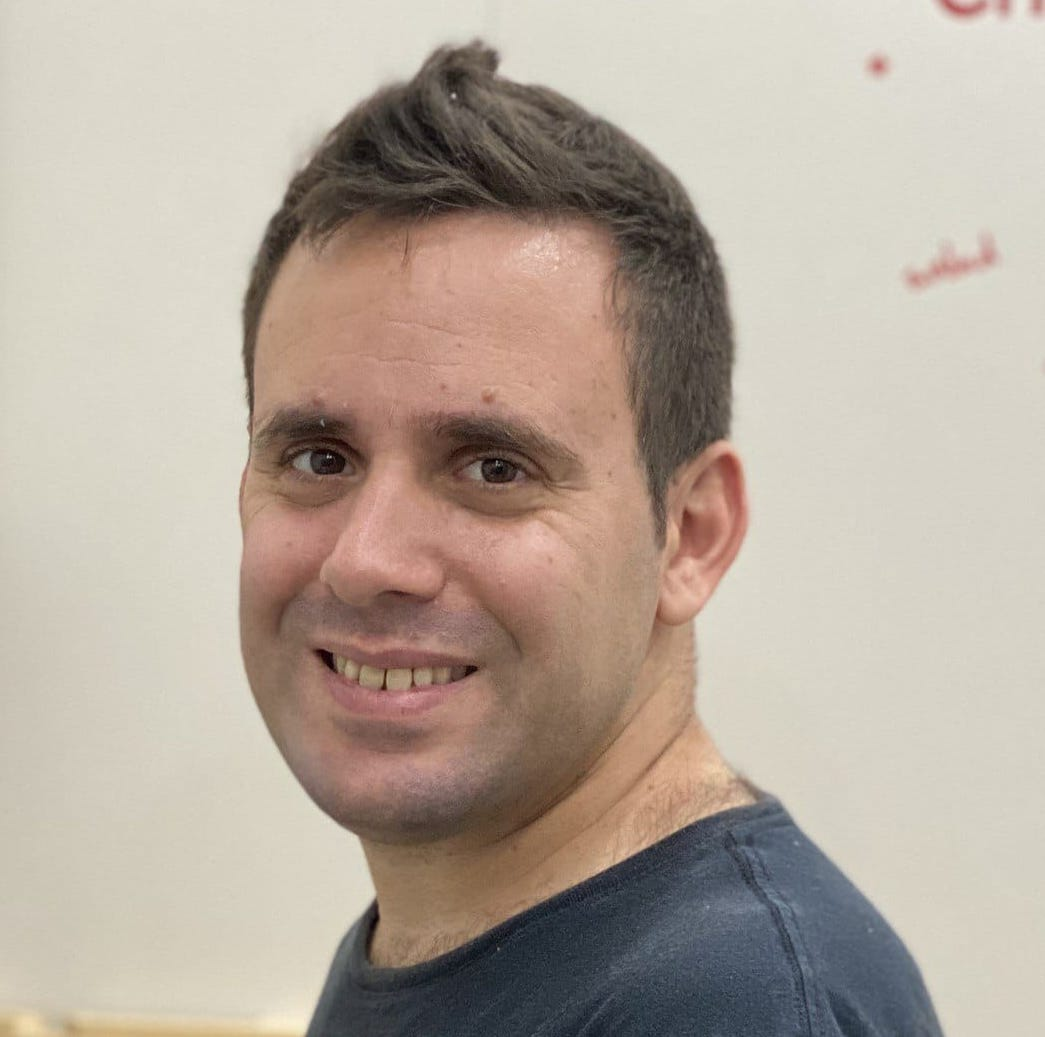
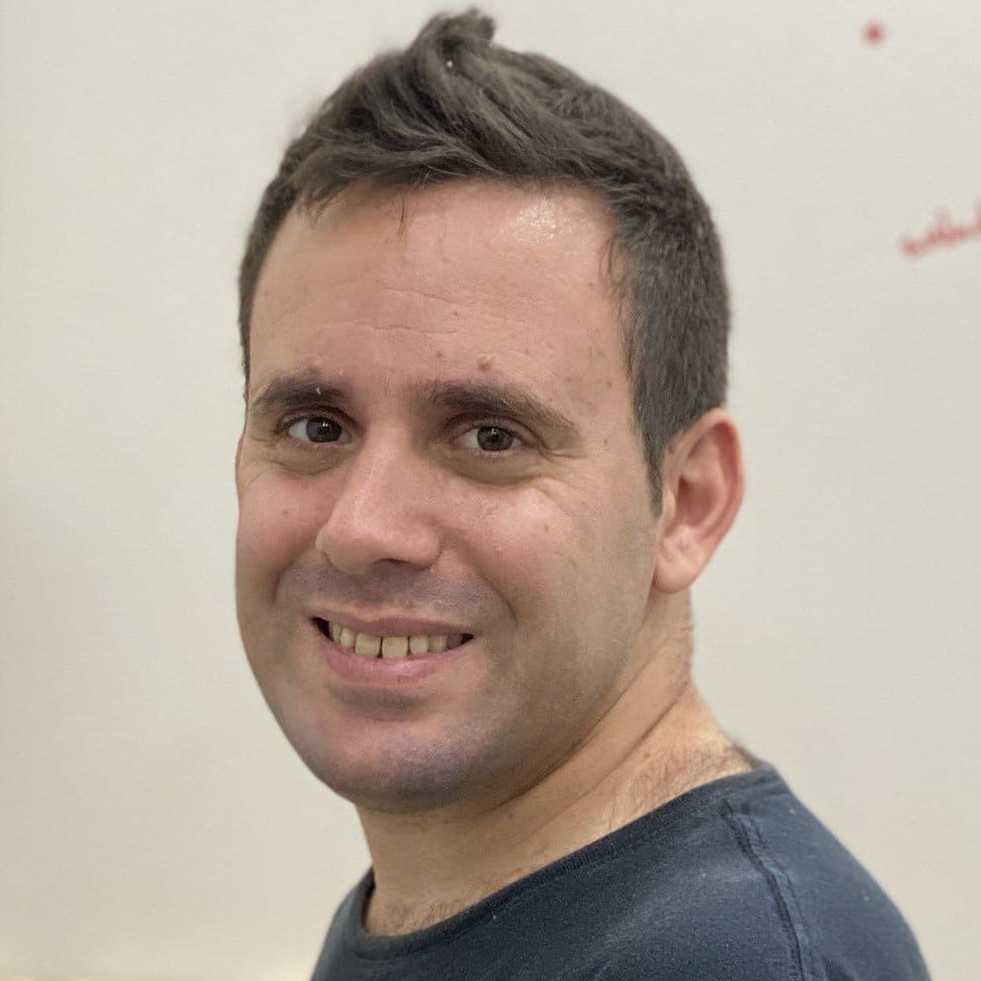
crop images, adding Rodrigo

diff --git a/docs/index.html b/docs/index.html
@@ -298,6 +298,7 @@
                 </div>
             </div> <!-- row -->
             <div class="row">
+        <div class="row justify-content-center">
           <div class="col-lg-4 col-sm-6">
                     <div class="team-style-eleven text-center mt-30 wow fadeIn" data-wow-duration="1s" data-wow-delay="0s">
                         <div class="team-image">
@@ -334,10 +335,20 @@
                         </div>
                     </div> <!-- single team -->
                 </div>
-
-
           </div>
         <div class="row justify-content-center">
+          <div class="col-lg-4 col-sm-6">
+                  <div class="team-style-eleven text-center mt-30 wow fadeIn" data-wow-duration="1s" data-wow-delay="0s">
+                      <div class="team-image">
+                          <img src="assets/images/team-7.jpg" alt="Team">
+                      </div>
+                      <div class="team-content">
+
+                          <h4 class="team-name">Rodrigo Lo Guzzo</h4>
+                          <span class="sub-title">Estudiante de Ing. en Informática</span>
+                      </div>
+                  </div> <!-- single team -->
+              </div>
             <div class="col-lg-4 col-sm-6">
                     <div class="team-style-eleven text-center mt-30 wow fadeIn" data-wow-duration="1s" data-wow-delay="0s">
                         <div class="team-image">
@@ -345,8 +356,7 @@
                         </div>
                         <div class="team-content">
 
-                            <h4 class="team-name">José Ignacio Alvarez-Hamelin
-</h4>
+                            <h4 class="team-name">José Ignacio Alvarez-Hamelin</h4>
                             <span class="sub-title">Dr. Ciencias de la Informática</span>
                         </div>
                     </div> <!-- single team -->
@@ -363,6 +373,8 @@
                         </div>
                     </div> <!-- single team -->
                 </div>
+              </div>
+              <div class="row justify-content-center">
                  <div class="col-lg-4 col-sm-6">
                     <div class="team-style-eleven text-center mt-30 wow fadeIn" data-wow-duration="1s" data-wow-delay="0s">
                         <div class="team-image">
@@ -375,17 +387,14 @@
                         </div>
                     </div> <!-- single team -->
                 </div>
-            </div> <!-- row -->
-                    <div class="row justify-content-center">
+             <!-- row -->
             <div class="col-lg-4 col-sm-6">
                     <div class="team-style-eleven text-center mt-30 wow fadeIn" data-wow-duration="1s" data-wow-delay="0s">
                         <div class="team-image">
                             <img src="assets/images/team-6.jpg" alt="Team">
                         </div>
                         <div class="team-content">
-
-                            <h4 class="team-name">Nahuel González
-                            </h4>
+                            <h4 class="team-name">Nahuel González  </h4>
                             <span class="sub-title">Ing. en Informática</span>
                         </div>
                     </div> <!-- single team -->
